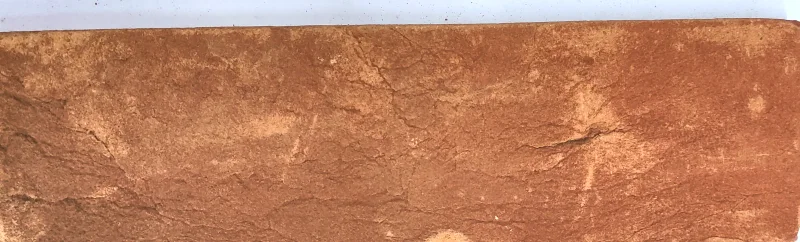
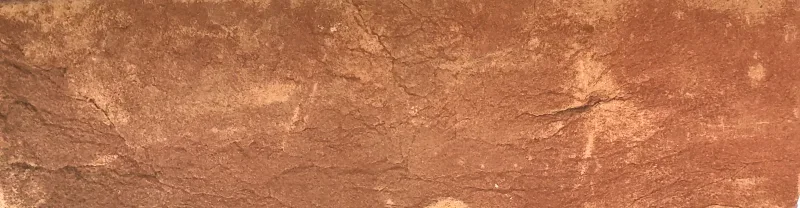
refino (refeito): Sertao flat-field de plano, Fume aparo por razao borda/miolo, Rosso-face2 aparo forte — mesma metodologia e resultados do item 40, que havia se perdido antes do push; cache-bust + bump v16; atualiza nota de trabalho perdido no item 41

diff --git a/paginacoes.js b/paginacoes.js
@@ -24,11 +24,11 @@
           texturas: ['brick-natura-face1.webp?v=3', 'brick-natura-face2.webp?v=3'] },
         { id: 'brick-rosso-prime',            nome: 'Rosso Prime',           w: 240, h: 65 },
         { id: 'brick-rusticatto-sertao',      nome: 'Rusticatto do Sertão',  w: 255, h: 70,
-          texturas: ['brick-rusticatto-sertao-face1.webp?v=3', 'brick-rusticatto-sertao-face2.webp?v=3'] },
+          texturas: ['brick-rusticatto-sertao-face1.webp?v=4', 'brick-rusticatto-sertao-face2.webp?v=4'] },
         { id: 'brick-rusticatto-fume',        nome: 'Rusticatto Fumê',       w: 240, h: 65,
-          texturas: ['brick-rusticatto-fume-face1.webp?v=1', 'brick-rusticatto-fume-face2.webp?v=1'] },
+          texturas: ['brick-rusticatto-fume-face1.webp?v=2', 'brick-rusticatto-fume-face2.webp?v=2'] },
         { id: 'brick-rusticatto-rosso',       nome: 'Rusticatto Rosso',      w: 270, h: 70,
-          texturas: ['brick-rusticatto-rosso-face1.webp?v=3', 'brick-rusticatto-rosso-face2.webp?v=4'] },
+          texturas: ['brick-rusticatto-rosso-face1.webp?v=3', 'brick-rusticatto-rosso-face2.webp?v=5'] },
         { id: 'brick-rusticatto-terra-negra', nome: 'Rusticatto Terra Negra', w: 260, h: 65,
           texturas: ['brick-rusticatto-terra-negra-face1.webp?v=3', 'brick-rusticatto-terra-negra-face2.webp?v=3'] },
         { id: 'brick-terra-cerrado',          nome: 'Terra do Cerrado',      w: 260, h: 70,

diff --git a/produto-cimenticio-alpino.html b/produto-cimenticio-alpino.html
@@ -1164,7 +1164,7 @@ height="0" width="0" style="display:none;visibility:hidden"></iframe></noscript>
   <script defer src="cookie-consent.js?v=1"></script>
   <script defer src="exit-intent.js?v=2"></script>
   <script defer src="amostras.js?v=3"></script>
-  <script defer src="paginacoes.js?v=15"></script>
+  <script defer src="paginacoes.js?v=16"></script>
   <script defer src="lead-pdf.js?v=10"></script>
   <script defer src="parcelamento.js?v=2"></script>
   <script src="analytics.js"></script>

diff --git a/produto-cimenticio-grigio.html b/produto-cimenticio-grigio.html
@@ -1164,7 +1164,7 @@ height="0" width="0" style="display:none;visibility:hidden"></iframe></noscript>
   <script defer src="cookie-consent.js?v=1"></script>
   <script defer src="exit-intent.js?v=2"></script>
   <script defer src="amostras.js?v=3"></script>
-  <script defer src="paginacoes.js?v=15"></script>
+  <script defer src="paginacoes.js?v=16"></script>
   <script defer src="lead-pdf.js?v=10"></script>
   <script defer src="parcelamento.js?v=2"></script>
   <script src="analytics.js"></script>

diff --git a/produto-cimenticio-urban.html b/produto-cimenticio-urban.html
@@ -1168,7 +1168,7 @@ height="0" width="0" style="display:none;visibility:hidden"></iframe></noscript>
   <script defer src="cookie-consent.js?v=1"></script>
   <script defer src="exit-intent.js?v=2"></script>
   <script defer src="amostras.js?v=3"></script>
-  <script defer src="paginacoes.js?v=15"></script>
+  <script defer src="paginacoes.js?v=16"></script>
   <script defer src="lead-pdf.js?v=10"></script>
   <script defer src="parcelamento.js?v=2"></script>
   <script src="analytics.js"></script>

diff --git a/produto-rockface-alpino.html b/produto-rockface-alpino.html
@@ -1165,7 +1165,7 @@ height="0" width="0" style="display:none;visibility:hidden"></iframe></noscript>
   <script defer src="cookie-consent.js?v=1"></script>
   <script defer src="exit-intent.js?v=2"></script>
   <script defer src="amostras.js?v=3"></script>
-  <script defer src="paginacoes.js?v=15"></script>
+  <script defer src="paginacoes.js?v=16"></script>
   <script defer src="lead-pdf.js?v=10"></script>
   <script defer src="parcelamento.js?v=2"></script>
   <script src="analytics.js"></script>

diff --git a/produto-rockface-brisa.html b/produto-rockface-brisa.html
@@ -1165,7 +1165,7 @@ height="0" width="0" style="display:none;visibility:hidden"></iframe></noscript>
   <script defer src="cookie-consent.js?v=1"></script>
   <script defer src="exit-intent.js?v=2"></script>
   <script defer src="amostras.js?v=3"></script>
-  <script defer src="paginacoes.js?v=15"></script>
+  <script defer src="paginacoes.js?v=16"></script>
   <script defer src="lead-pdf.js?v=10"></script>
   <script defer src="parcelamento.js?v=2"></script>
   <script src="analytics.js"></script>

diff --git a/produto-rockface-grigio.html b/produto-rockface-grigio.html
@@ -1165,7 +1165,7 @@ height="0" width="0" style="display:none;visibility:hidden"></iframe></noscript>
   <script defer src="cookie-consent.js?v=1"></script>
   <script defer src="exit-intent.js?v=2"></script>
   <script defer src="amostras.js?v=3"></script>
-  <script defer src="paginacoes.js?v=15"></script>
+  <script defer src="paginacoes.js?v=16"></script>
   <script defer src="lead-pdf.js?v=10"></script>
   <script defer src="parcelamento.js?v=2"></script>
   <script src="analytics.js"></script>

diff --git a/produto-rockface-urban.html b/produto-rockface-urban.html
@@ -1165,7 +1165,7 @@ height="0" width="0" style="display:none;visibility:hidden"></iframe></noscript>
   <script defer src="cookie-consent.js?v=1"></script>
   <script defer src="exit-intent.js?v=2"></script>
   <script defer src="amostras.js?v=3"></script>
-  <script defer src="paginacoes.js?v=15"></script>
+  <script defer src="paginacoes.js?v=16"></script>
   <script defer src="lead-pdf.js?v=10"></script>
   <script defer src="parcelamento.js?v=2"></script>
   <script src="analytics.js"></script>

diff --git a/produto-brick-eco-palha.html b/produto-brick-eco-palha.html
@@ -1094,7 +1094,7 @@ height="0" width="0" style="display:none;visibility:hidden"></iframe></noscript>
 
   <script defer src="promo-frete-gratis.js?v=2"></script>
   <script defer src="amostras.js?v=3"></script>
-  <script defer src="paginacoes.js?v=15"></script>
+  <script defer src="paginacoes.js?v=16"></script>
   <script defer src="header-scroll.js?v=3"></script>
   <script defer src="back-to-top.js?v=1"></script>
   <script defer src="mobile-cta-bar.js?v=1"></script>

diff --git a/produto-brick-lumus.html b/produto-brick-lumus.html
@@ -1094,7 +1094,7 @@ height="0" width="0" style="display:none;visibility:hidden"></iframe></noscript>
 
   <script defer src="promo-frete-gratis.js?v=2"></script>
   <script defer src="amostras.js?v=3"></script>
-  <script defer src="paginacoes.js?v=15"></script>
+  <script defer src="paginacoes.js?v=16"></script>
   <script defer src="header-scroll.js?v=3"></script>
   <script defer src="back-to-top.js?v=1"></script>
   <script defer src="mobile-cta-bar.js?v=1"></script>

diff --git a/produto-brick-mescla-prime.html b/produto-brick-mescla-prime.html
@@ -1086,7 +1086,7 @@ height="0" width="0" style="display:none;visibility:hidden"></iframe></noscript>
 
   <script defer src="promo-frete-gratis.js?v=2"></script>
   <script defer src="amostras.js?v=3"></script>
-  <script defer src="paginacoes.js?v=15"></script>
+  <script defer src="paginacoes.js?v=16"></script>
   <script defer src="header-scroll.js?v=3"></script>
   <script defer src="back-to-top.js?v=1"></script>
   <script defer src="mobile-cta-bar.js?v=1"></script>

diff --git a/produto-brick-natura.html b/produto-brick-natura.html
@@ -1090,7 +1090,7 @@ height="0" width="0" style="display:none;visibility:hidden"></iframe></noscript>
 
   <script defer src="promo-frete-gratis.js?v=2"></script>
   <script defer src="amostras.js?v=3"></script>
-  <script defer src="paginacoes.js?v=15"></script>
+  <script defer src="paginacoes.js?v=16"></script>
   <script defer src="header-scroll.js?v=3"></script>
   <script defer src="back-to-top.js?v=1"></script>
   <script defer src="mobile-cta-bar.js?v=1"></script>
